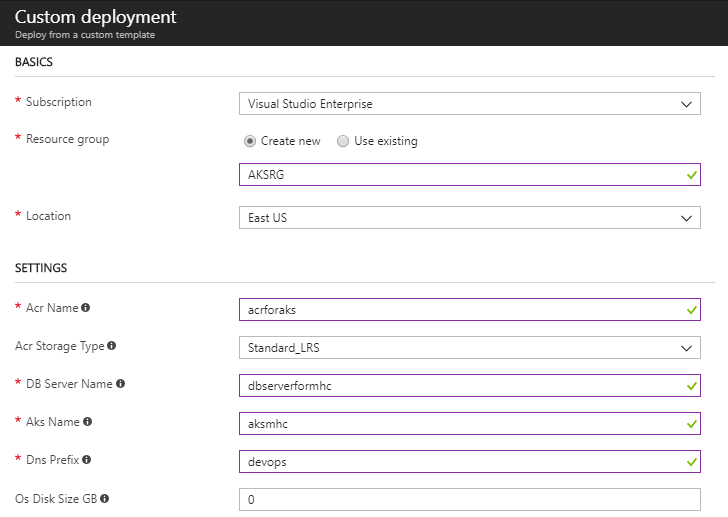
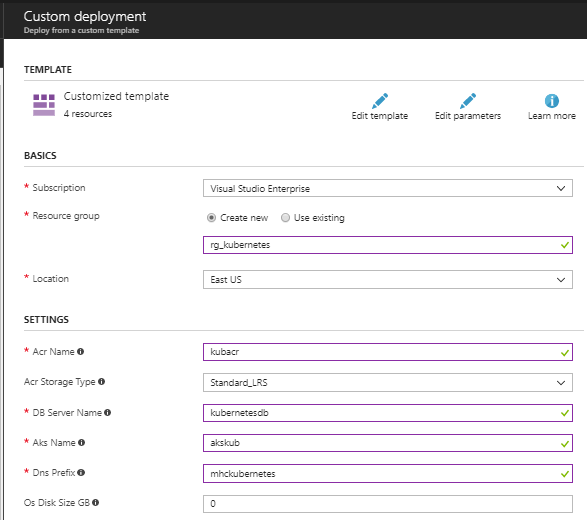
updating screenshots

diff --git a/kubernetes/readme.md b/kubernetes/readme.md
@@ -49,7 +49,7 @@ The below diagram details the VSTS DevOps workflow with Azure Container Service 
 
 ## Prerequisites
 
-1. **Microsoft Azure Account**: You need a valid and active azure account for the labs.
+1. **Microsoft Azure Account**: You need a valid and active azure account for the lab
 
 1. **Visual Studio Team Services Account**: If you don’t have one, you can create from [here](https://docs.microsoft.com/en-us/vsts/accounts/use-personal-access-tokens-to-authenticate)
 
@@ -59,7 +59,7 @@ The below diagram details the VSTS DevOps workflow with Azure Container Service 
 
 ## Preparing user machine
 
-This lab requires executables to be installed and configured in **Administrator** mode on your machine. If you do not have administrative privileges on your machine, then create a Windows VM on Azure and make use of it for the rest of this lab. 
+This lab requires executables to be installed and configured in **Administrator** mode on your machine. If you do not have administrative privileges on your machine, create a Windows VM on Azure and follow the exercises within the VM. 
 
 1. Spin up a [Windows virtual machine on Azure](https://portal.azure.com/#create/Microsoft.WindowsServer2016Datacenter-ARM).
 
@@ -122,7 +122,7 @@ We require below azure resources for this lab:
    ![](http://azuredeploy.net/deploybutton.png)</a>
 
    **Note**: 
-   > Since the Azure SQL Server name does not support **UPPER** case letter in its naming convention, use lower case for ***DB Server Name*** field value.
+   > Since the Azure SQL Server name does not support **UPPER** / **Camel** casing for its naming convention, use lower case for ***DB Server Name*** field value.
 
    > At the time of writing this lab, regions **East US**, **Central US**, **West Europe**, **Canada Central** and **Canada East** are supported locations. For more information, refer [AKS Azure Regions](https://docs.microsoft.com/en-in/azure/aks/container-service-quotas).
 
@@ -133,7 +133,7 @@ We require below azure resources for this lab:
 
    ![](images/deploymentsucceeded.png)
 
-1. The components - a **Storage account**, a **Container Registry**, a **Container Service**, a **SQL Server** along with a **SQL Database**. Let us access each of these components and gather their details which are required for Exercise 2.
+1. The components - a **Storage account**, a **Container Registry**, a **Container Service**, a **SQL Server** along with a **SQL Database**. Let us access each of these components and gather their details which are required in Exercise 2.
 
    ![](images/azurecomponents.png)
 
@@ -170,37 +170,40 @@ We require below azure resources for this lab:
 
 Service endpoints are a bundle of properties securely stored by VSTS and is a way for VSTS to connect to external systems or services. 
 
-Since the connections are not established during project provisioning, let us manually create the Azure and Kubernetes endpoints. 2 endpoints -  *Azure Resource Manager* and *Kubernetes* service endpoints are used in this lab.
+Since the connections are not established during project provisioning, let us manually create 2 endpoints -  **Azure Resource Manager** and **Kubernetes**.
 
 **Azure Resource Manager Service Endpoint** : Defines and secures a connection to a Microsoft Azure subscription using Service Principal Authentication (SPA). 
 
 1. In VSTS, navigate to the **Services** by clicking on the gear icon ![](images/gear.png), and click on the **+ New Service Endpoint**. Select **Azure Resource Manager**. Specify the **Connection name**, select your **Subscription** from the dropdown and click **OK**. We use this endpoint to connect **VSTS** and **Azure**.
 
+    You will be prompted to authorize this connection with Azure credentials. Disable pop-up blocker in your browser if you see a blank screen after clicking OK, and retry the step.
+
 > If your subscription is not listed or to specify an existing service principal, click the link in the dialog which will switch to manual configuration mode and follow the  [Service Principal creation](https://blogs.msdn.microsoft.com/devops/2015/10/04/automating-azure-resource-group-deployment-using-a-service-principal-in-visual-studio-online-buildrelease-management/) link.
 
    ![](images/azureendpoint.png)
 
-    You will be prompted to authorize this connection with Azure credentials. Disable pop-up blocker in your browser if you see a blank screen after clicking OK, and retry the step.
 
 **Kubernetes Service Endpoint**
 
 1. Click **+ New Service Endpoint**, and select **Kubernetes** from the list. We use this endpoint to connect **VSTS** and **Azure Container Service (AKS)**.
 
-    - For the **Server URL**, enter your container service **API server address** pre-fixed with **http://**
+    - **Connection Name** : Provide the connection name.
 
-    - To get **Kubeconfig** contents, run the following Azure commands in a command prompt logged in with Administrator privilege.
+    - **Server URL** : Enter your container service **API server address** pre-fixed with **http://**
 
-      - **az login** : Authorize your login by going to below url, and enter the provided unique code.
+    - **Kubeconfig** : To get the Kubeconfig value, run the following Azure commands in a command prompt logged in with Administrator privilege.
+
+      1. Type **az login** and hit Enter. Authorize your login by accessing the url given in the prompt and enter the provided unique code to complete the authentication.
 
       ![](images/azlogin.png)
 
-      - **az aks get-credentials --resource-group yourResourceGroup --name yourAKSname** : Get access credentials for the Kubernetes cluster.
+      2. **az aks get-credentials --resource-group yourResourceGroup --name yourAKSname** : Get access credentials for the Kubernetes cluster.
 
       ![](images/getkubeconfig.png)
 
     - Navigate to the **.kube** folder under your home directory (eg: C:\Users\YOUR_HOMEDIR\ .kube)
 
-    - Copy contents from configuration file called **config** and paste it in the Kubernetes Connection window. Click **OK**.
+    - Copy contents of the **config** file and paste it in the Kubernetes Connection window. Click **OK**.
 
       ![](images/aksendpoint.png)
 
@@ -278,7 +281,7 @@ We will update the database connection string for the .NET Core application and 
 
 ## Exercise 4: Trigger a Build and deploy application
 
-In this exercise, let us trigger a build manually which in turn will trigger an automatic deployment of the application. Our application is designed to be deployed in the pod with **load balancer** in front-end and **Redis cache** in the back-end.
+In this exercise, let us trigger a build manually and upon completion,an automatic deployment of the application will be triggered. Our application is designed to be deployed in the pod with **load balancer** in front-end and **Redis cache** in the back-end.
 
 1. Go to the **Builds** section under the **Build and Release** menu, click the build definition **MyHealth.AKS.Build** and then click **Queue new build...**.
 
